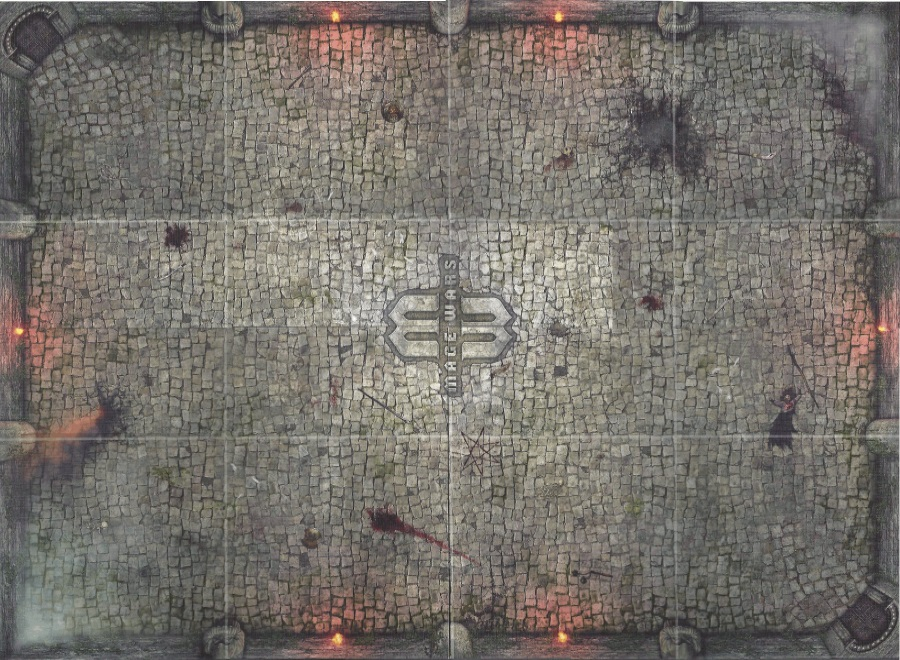
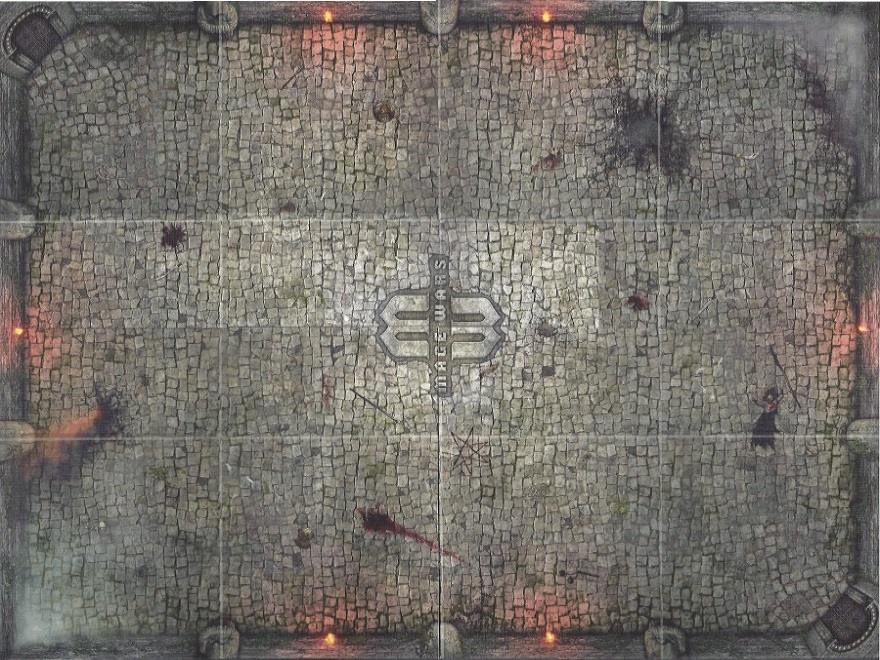
#166 - Fixed autoplacement error on default map
#166 - Attempting to play a card facedown on the default map (i.e.
before loading a map) now works properly.

#166 - Default map now has properly defined zones that work exactly like
those of the modular maps.

#166 - Resized default map to make zones more square.

#166 - Fixed misc. zone-related  bugs.

diff --git a/GameDatabase/9acef3d0-efa8-4d3f-a10c-54812baecdda/scripts/actions.py b/GameDatabase/9acef3d0-efa8-4d3f-a10c-54812baecdda/scripts/actions.py
@@ -169,7 +169,12 @@ def onGameStart():
 	setGlobalVariable("IniAllDone", "")
 	setGlobalVariable("GameReset", "")
 	setGlobalVariable('DiceAndPhaseCardsDone','True')
-	setGlobalVariable('Map',"")
+
+	#Set default map
+	mapDict = createMap(4,3,[[1 for j in range(3)] for i in range(4)],250)
+	mapDict.get('zoneArray')[0][0]['startLocation'] = '1'
+	mapDict.get('zoneArray')[3][2]['startLocation'] = '2'
+	setGlobalVariable('Map',str(mapDict))
 
 	# reset python Global Variables
 	for p in players:
@@ -262,8 +267,7 @@ def onMoveCard(player,card,fromGroup,toGroup,oldIndex,index,oldX,oldY,x,y,isScri
                                                 actionType = ['attaches','to']
                                                 hasAttached = True
                                                 break
-                        if not hasAttached: snapToZone(card) #snap to zone
-                                
+                        if not hasAttached and toGroup == table: snapToZone(card) #snap to zone
 			if actionType:
 				notify("{} {} {} {} {}.".format(me,actionType[0],c,actionType[1],t))
 		if toGroup != table:
@@ -1466,18 +1470,11 @@ def playCardFaceDown(card, x=0, y=0):
 	global mycolor
 	occupied = True
 	mapDict = eval(getGlobalVariable('Map'))
-        x,y = {
-                1 : (-595,-240),
-                2 : (460,120),
-                3 : (-595,120),
-                4 : (460,-240),
-                5 : (-595,-40),
-                6 : (460,-40)
-                }[playerNum]
+        x,y = 0,0
 	if mapDict:
                 for i in range(len(mapDict.get('zoneArray'))):
                         for j in range(len(mapDict.get('zoneArray')[0])):
-                                if mapDict.get('zoneArray')[i][j].get('startLocation') == str(playerNum): #It is our starting zone! Now to figure out where it is...
+                                if mapDict.get('zoneArray')[i][j] and mapDict.get('zoneArray')[i][j].get('startLocation') == str(playerNum):
                                         zoneX,zoneY = mapDict.get('zoneArray')[i][j].get('x'),mapDict.get('zoneArray')[i][j].get('y')
                                         mapX,mapW = mapDict.get('x'),mapDict.get('X')
                                         zoneS = mapDict.get('zoneArray')[i][j].get('size')

diff --git a/GameDatabase/9acef3d0-efa8-4d3f-a10c-54812baecdda/scripts/attachcards.py b/GameDatabase/9acef3d0-efa8-4d3f-a10c-54812baecdda/scripts/attachcards.py
@@ -285,10 +285,9 @@ def createMap(I,J,zoneArray,tileSize):
     zoneList = []
     for i in range(len(zoneArray)):
         for j in range(len(zoneArray[0])):
-            z = (createZone(i,j,mapDict['x'],mapDict['y'],mapDict['tileSize']) if zoneArray[i][j] else None)
-            if z:
-                array[i][j] = z 
-                zoneList.append(z)
+            z = (createZone(i,j,mapDict['x'],mapDict['y'],mapDict['tileSize']) if zoneArray[i][j] else {})
+            array[i][j] = z 
+            if z: zoneList.append(z)
     mapDict['zoneArray'] = array
     mapDict['zoneList'] = zoneList
     return mapDict
